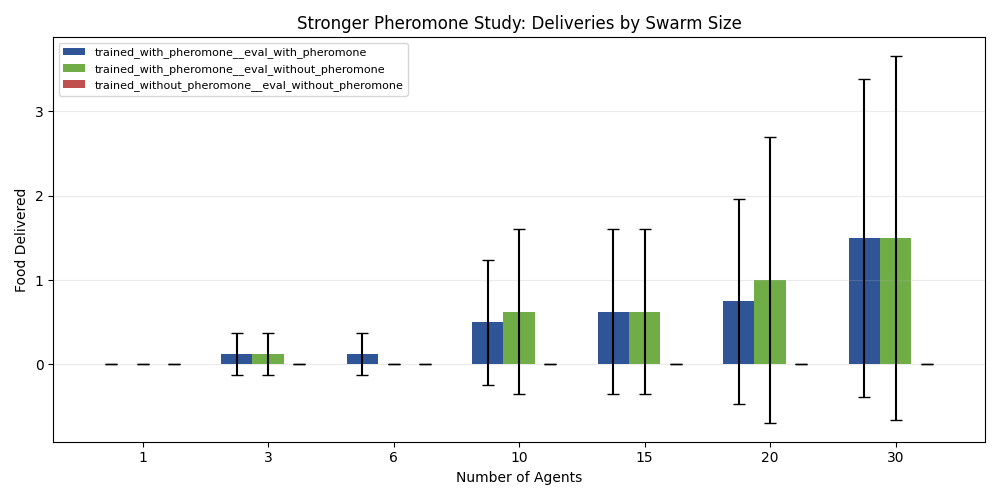
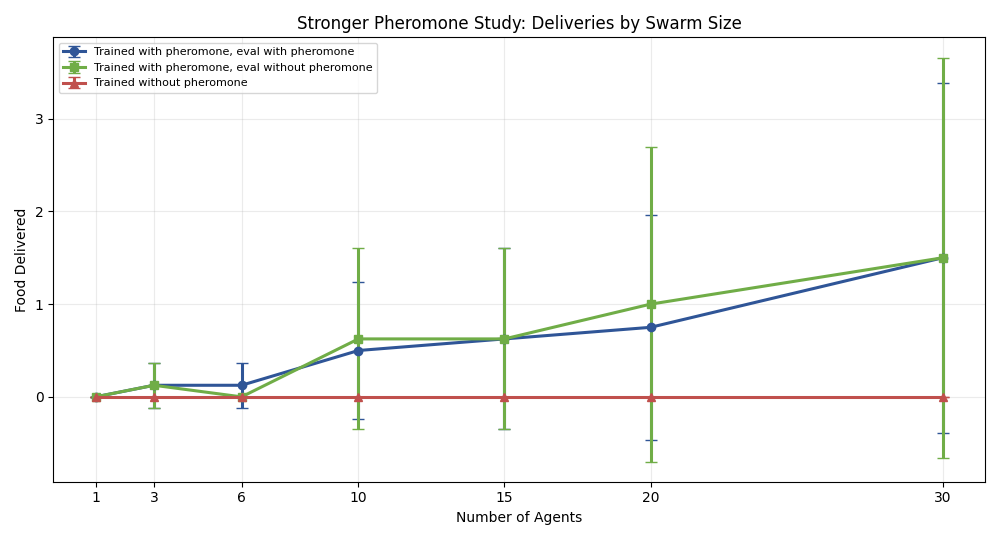
- the killer scaling plots are now 3-line charts, one line per condition   - I regenerated:       - dev/cwsf2026/sim/docs/gvrsf2026/experiments/20260406_132534/figures/killer_food_delivered_by_swarm_size.png       - dev/cwsf2026/sim/docs/gvrsf2026/experiments/20260406_132534/figures/killer_late_deli
One clarification:

  - dev/cwsf2026/sim/docs/gvrsf2026/experiments/20260406_132534/figures/scaling_food_delivered.png in the broad campaign is still a single line, because that
    broad family only has one condition varying swarm size.
  - the 3-condition comparison belongs to the killer scaling figures, and those are now plotted as 3 lines.

diff --git a/docs/gvrsf2026/experiments/20260406_132534/killer_scaling/commands/plot_from_tables.py b/docs/gvrsf2026/experiments/20260406_132534/killer_scaling/commands/plot_from_tables.py
@@ -31,24 +31,37 @@ def grouped_metric_plot(rows, metric, filename, title):
         "trained_with_pheromone__eval_without_pheromone",
         "trained_without_pheromone__eval_without_pheromone",
     ]
+    labels = {
+        "trained_with_pheromone__eval_with_pheromone": "Trained with pheromone, eval with pheromone",
+        "trained_with_pheromone__eval_without_pheromone": "Trained with pheromone, eval without pheromone",
+        "trained_without_pheromone__eval_without_pheromone": "Trained without pheromone",
+    }
     swarm_sizes = sorted({int(r["n_agents"]) for r in rows})
-    x = np.arange(len(swarm_sizes))
-    width = 0.25
-    fig, ax = plt.subplots(figsize=(10, 5))
+    fig, ax = plt.subplots(figsize=(10, 5.4))
     colors = ["#2F5597", "#70AD47", "#C0504D"]
+    markers = ["o", "s", "^"]
     for idx, condition in enumerate(order):
         subset = [r for r in rows if r["condition"] == condition]
         subset.sort(key=lambda r: int(r["n_agents"]))
         means = [float(r[f"{metric}_mean"]) for r in subset]
         cis = [float(r[f"{metric}_ci95"]) for r in subset]
-        ax.bar(x + (idx - 1) * width, means, width, yerr=cis, capsize=4, label=condition, color=colors[idx])
-    ax.set_xticks(x)
-    ax.set_xticklabels([str(n) for n in swarm_sizes])
+        ax.errorbar(
+            swarm_sizes,
+            means,
+            yerr=cis,
+            marker=markers[idx],
+            linewidth=2.2,
+            markersize=6,
+            capsize=4,
+            label=labels[condition],
+            color=colors[idx],
+        )
     ax.set_xlabel("Number of Agents")
     ax.set_ylabel(metric.replace("_", " ").title())
     ax.set_title(title)
+    ax.set_xticks(swarm_sizes)
     ax.legend(fontsize=8)
-    ax.grid(True, axis="y", alpha=0.25)
+    ax.grid(True, alpha=0.25)
     fig.tight_layout()
     fig.savefig(FIGURES_DIR / filename)
     plt.close(fig)
